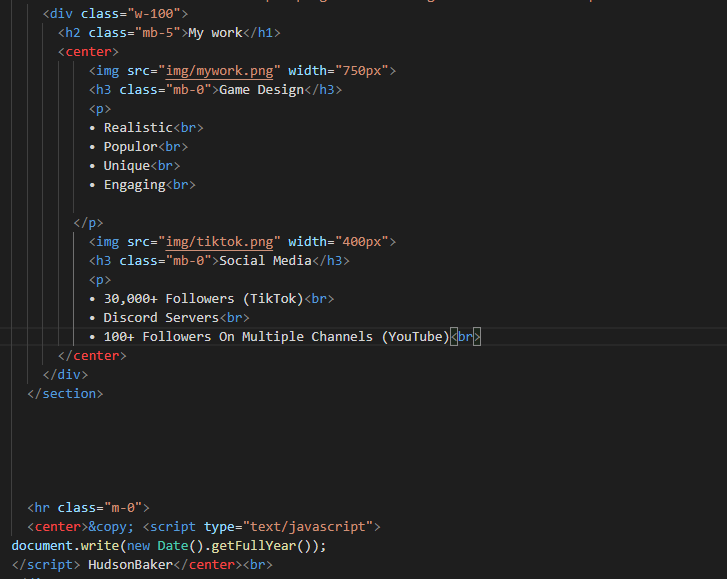
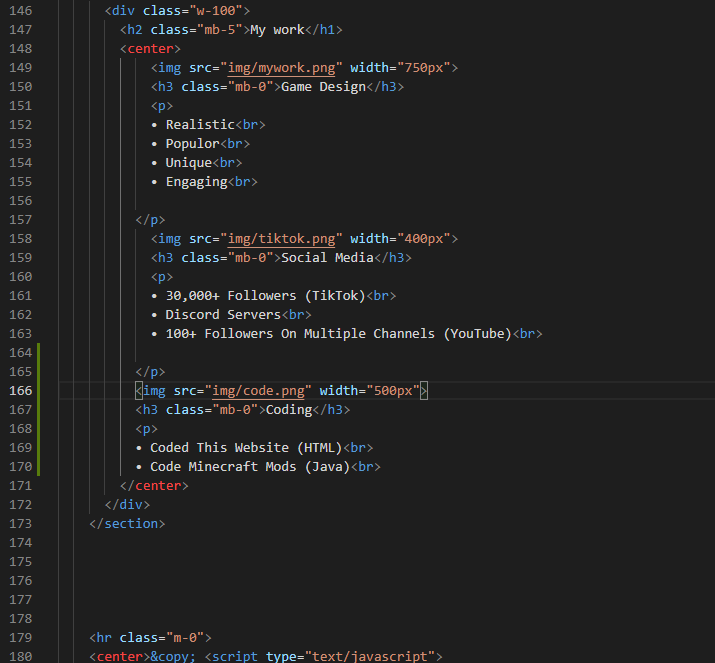
e

Changed region(s): [[0.0, 0.0, 0.7692, 1.0]]

diff --git a/index.html b/index.html
@@ -145,6 +145,7 @@
     <section class="resume-section p-1 p-lg-5 d-flex align-items-center" id="portfolio">
       <div class="w-100">
         <h2 class="mb-5">My work</h1>
+          <text class="text">Scroll Down For More</h3>
         <center>
             <img src="img/mywork.png" width="750px">
             <h3 class="mb-0">Game Design</h3>
@@ -161,6 +162,13 @@
             • 30,000+ Followers (TikTok)<br>
             • Discord Servers<br>
             • 100+ Followers On Multiple Channels (YouTube)<br>
+
+          </p>
+          <img src="img/code.png" width="500px">
+          <h3 class="mb-0">Coding</h3>
+        <p>
+          • Coded This Website (HTML)<br>
+          • Code Minecraft Mods (Java)<br>
         </center>
       </div>
     </section>
